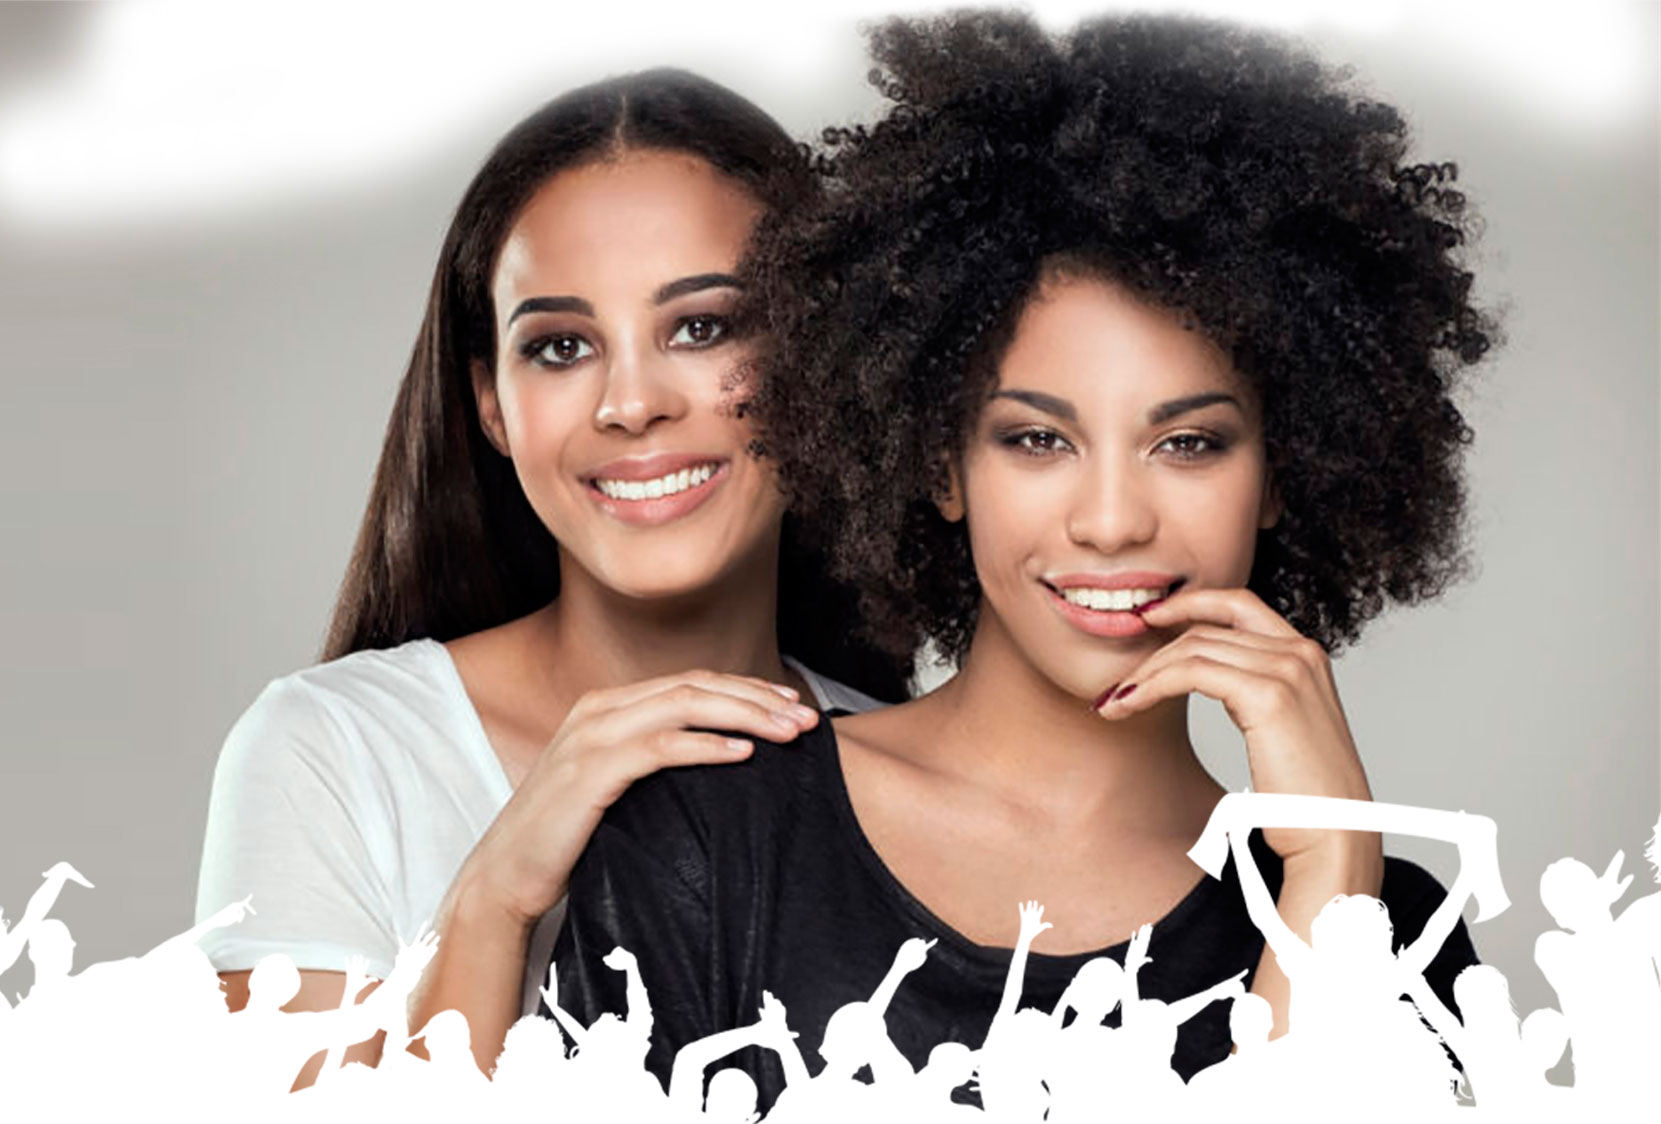
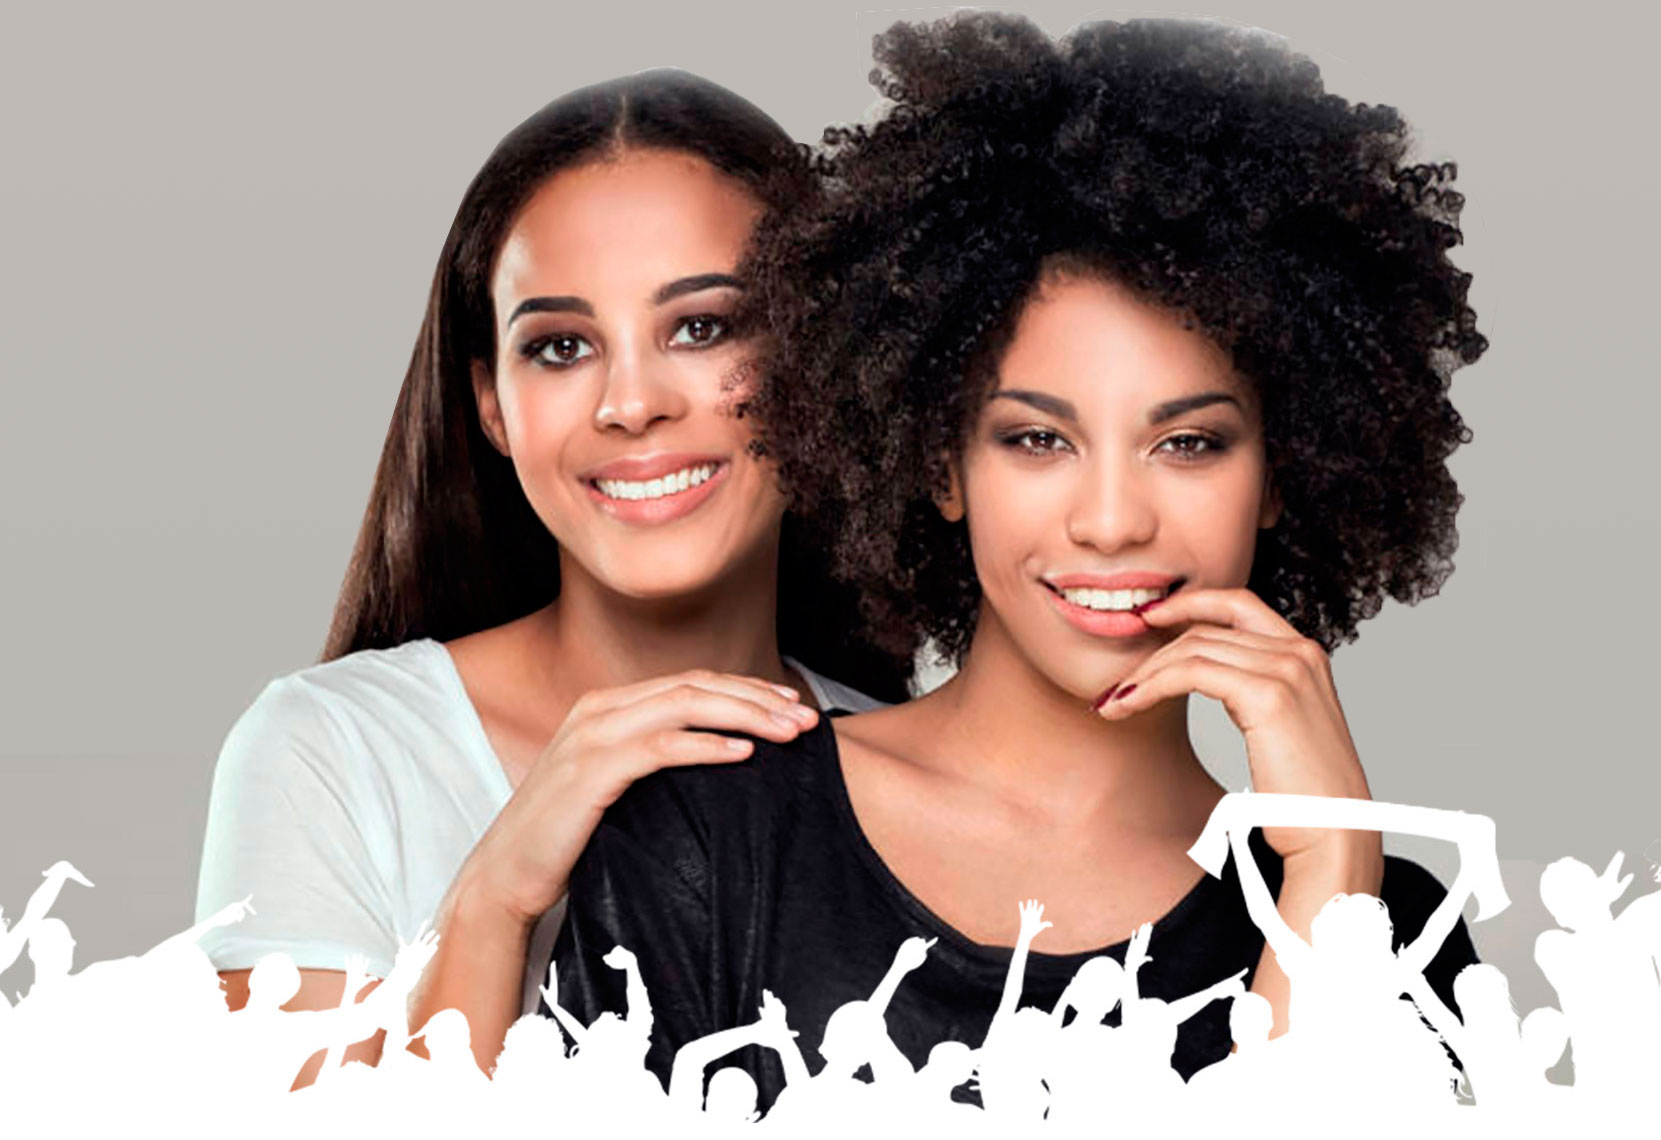
Desenvolvimento do Footer, ajuste na imagem do header. Craição de novo componente map

diff --git a/src/components/mainDisplay/index.jsx b/src/components/mainDisplay/index.jsx
@@ -1,7 +1,6 @@
 import "./index.css";
 import React from "react";
 import icLogo from "../../assets/ic_logo.jpg";
-import Button from "@material-ui/core/Button";
 import imgTorcida from "../../assets/bg_torcida_cinza.png";
 
 class MainDisplay extends React.Component {
@@ -9,12 +8,12 @@ class MainDisplay extends React.Component {
     return (
       <div className="mainDisplay">
         <div className="mainDisplayLogo">
-          <img src={icLogo} />
+          <img src={icLogo} alt="Logo" />
         </div>
         <div className="btDenuncie">
-          <span> Denunciar agora</span>
+          <span> Denunciar agora!</span>
         </div>
-        <img className="imgTorcida" src={imgTorcida} />
+        <img className="imgTorcida" src={imgTorcida} alt="Torcida" />
       </div>
     );
   }

diff --git a/src/components/footer/index.jsx b/src/components/footer/index.jsx
@@ -1,8 +1,20 @@
 import React from "react";
+import "./index.css";
+import imgTxt from "../../assets/ic_txt.png";
+import imgMulher from "../../assets/ic_mulher.jpg";
 
 class Footer extends React.Component {
   render() {
-    return <h1>Footer</h1>;
+    return (
+      <div className="footer">
+        <img
+          src={imgTxt}
+          className="imgTxt"
+          alt="Não é uma ferramenta. É uma guerra contra o assédio sexual"
+        />
+        <img className="imgMulher" src={imgMulher} alt="Mulher" />
+      </div>
+    );
   }
 }
 

diff --git a/src/components/map/index.jsx b/src/components/map/index.jsx
@@ -1,0 +1,18 @@
+import "./index.css";
+import React from "react";
+
+class Map extends React.Component {
+  render() {
+    return (
+      <div className="map">
+        <p className="mapeamento">Mapeamento</p>
+        <p className="mapeamentoTxt">
+          Seu registro vai indicar em qual parte dos estádios mais acontecem
+          assédios
+        </p>
+      </div>
+    );
+  }
+}
+
+export default Map;

diff --git a/src/components/header/index.jsx b/src/components/header/index.jsx
@@ -1,12 +1,12 @@
-import React from "react";
 import "./index.css";
+import React from "react";
 import imgHeader from "../../assets/bg_topo.jpg";
 
 class Header extends React.Component {
   render() {
     return (
       <div className="header">
-        <img src={imgHeader} />
+        <img src={imgHeader} alt="Cabeçalho" />
       </div>
     );
   }

diff --git a/src/App.js b/src/App.js
@@ -1,7 +1,6 @@
-import React, { Component } from "react";
-import logo from "./logo.svg";
 import "./App.css";
 import { components } from "./loader";
+import React, { Component } from "react";
 
 class App extends Component {
   render() {

diff --git a/src/components/footer/index.css b/src/components/footer/index.css
@@ -1,0 +1,14 @@
+.footer {
+  display: flex;
+  flex-direction: column;
+  align-items: center;
+}
+
+.imgTxt {
+  width: 80%;
+  margin-bottom: 30px;
+}
+
+.imgMulher {
+  width: 100%;
+}

diff --git a/src/components/mainDisplay/index.css b/src/components/mainDisplay/index.css
@@ -21,7 +21,7 @@
 
 .btDenuncie span {
   color: white;
-  font-size: 17.3px;
+  font-size: 14.5px;
   font-weight: bold;
   text-transform: uppercase;
 }

diff --git a/src/components/header/index.css b/src/components/header/index.css
@@ -1,5 +1,5 @@
 .header {
-  background-color: #b7b6b1;
+  background-color: #bcb9b4;
 }
 
 .header img {

diff --git a/src/components/helper/index.css b/src/components/helper/index.css
@@ -5,5 +5,6 @@
 }
 
 .helper p {
-  width: 55%;
+  width: 73%;
+  color: #727272;
 }

diff --git a/src/components/map/index.css b/src/components/map/index.css
@@ -1,0 +1,5 @@
+.map {
+}
+
+.mapeamento {
+}
